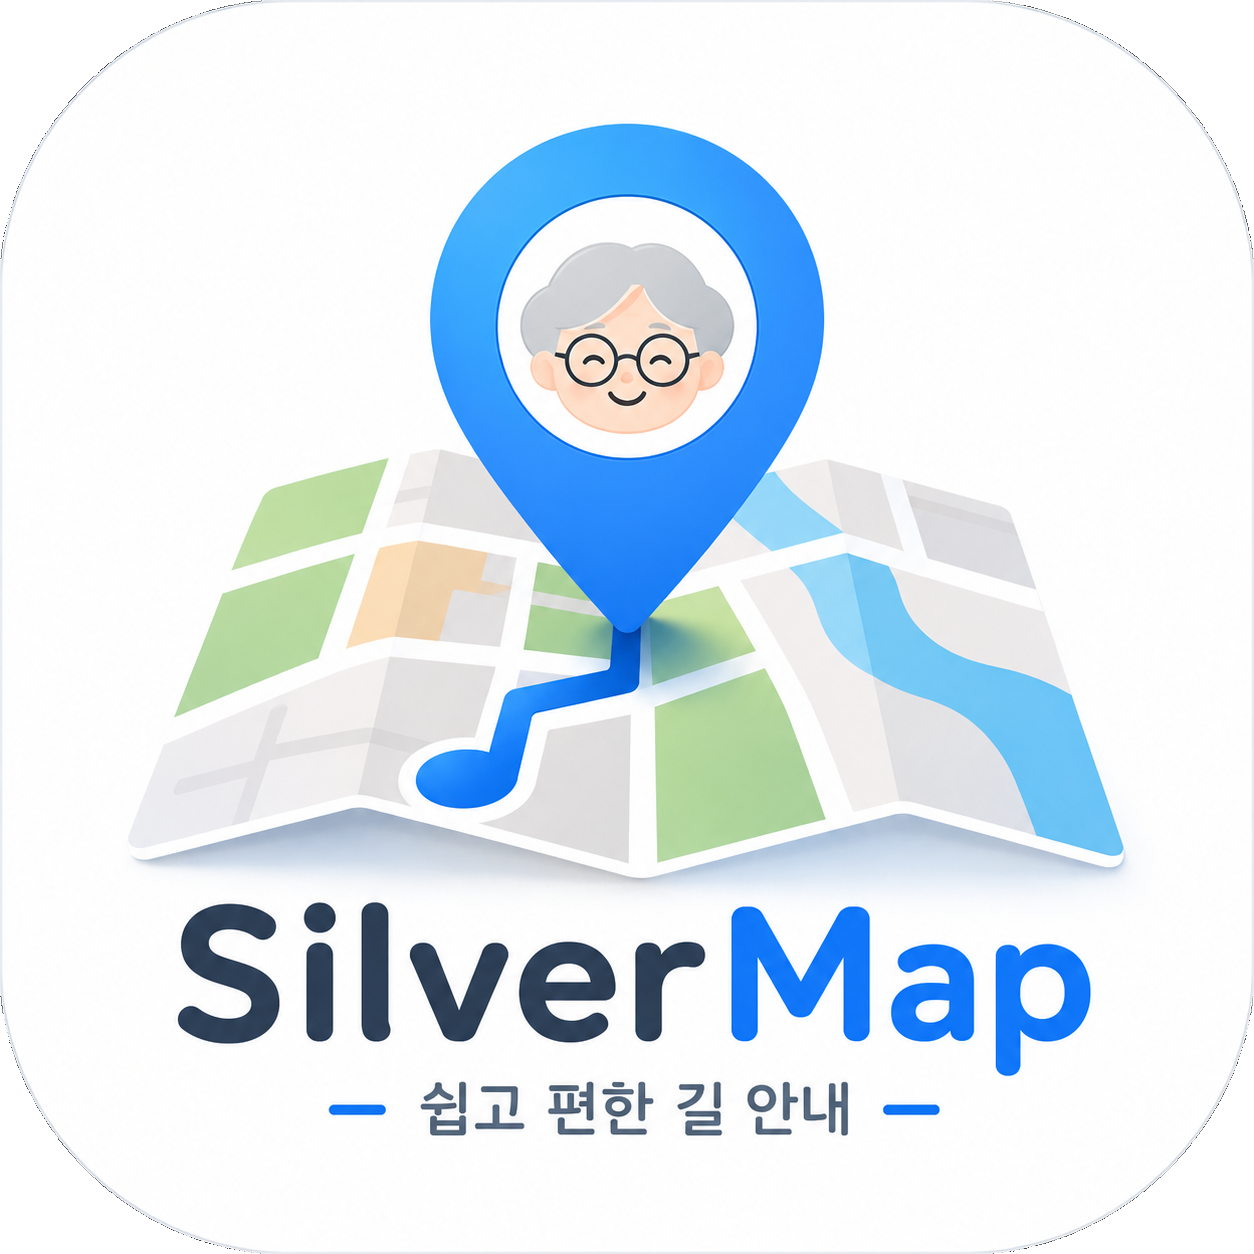
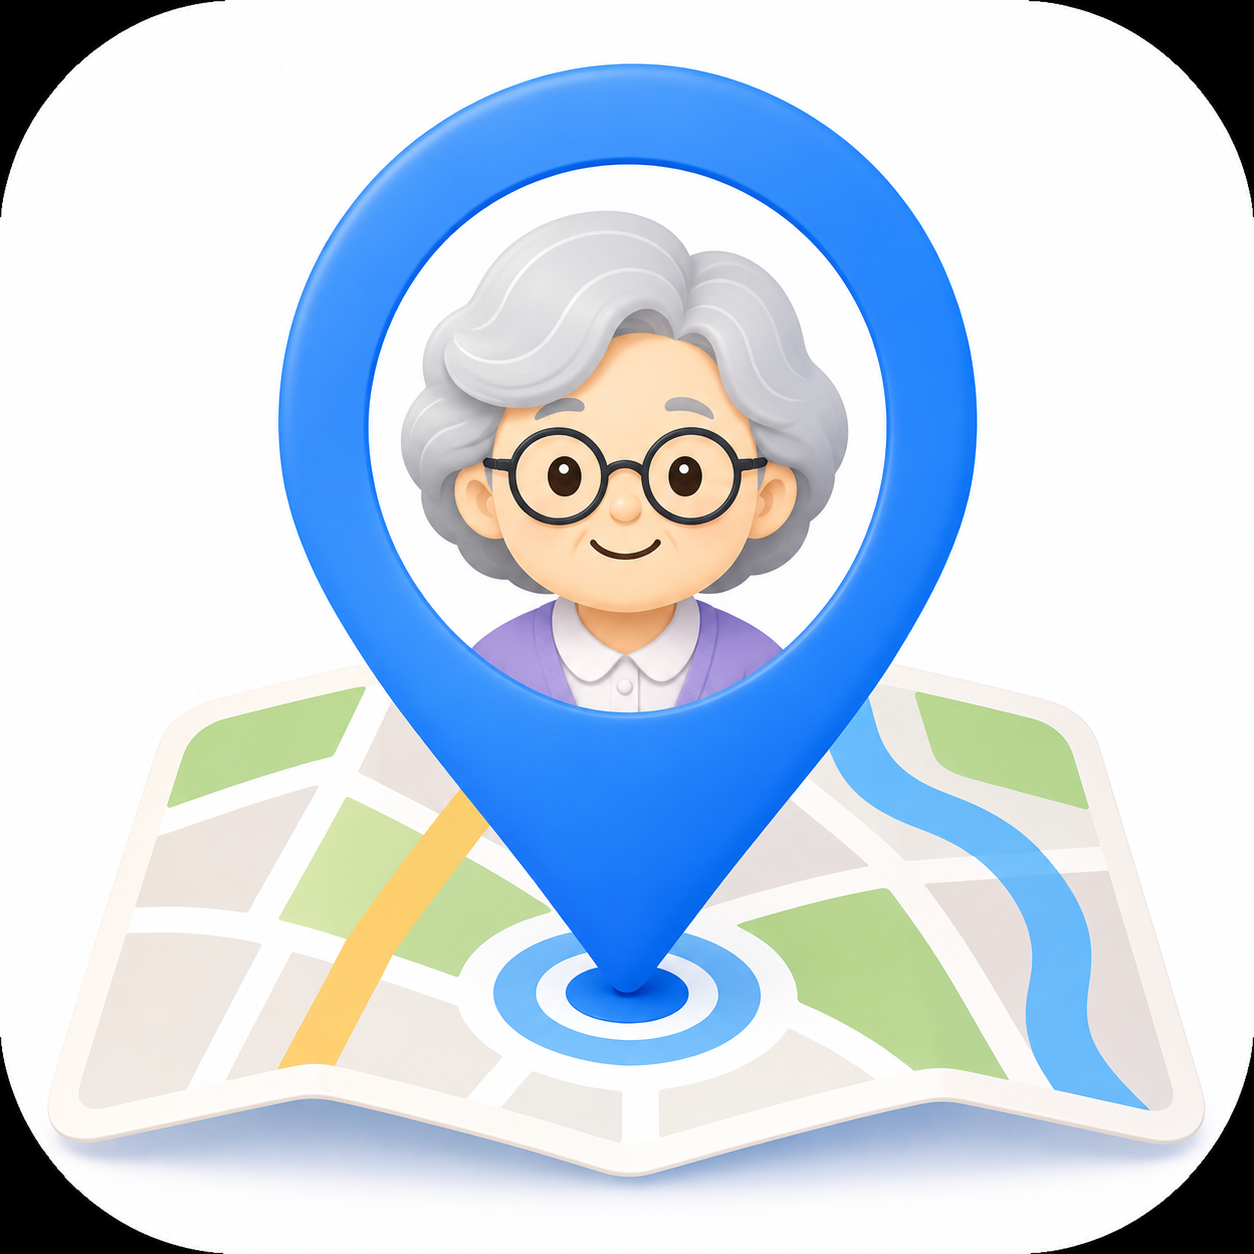
feat: 새 앱 아이콘 교체 및 스플래시 스크린 추가
- public/icon.png: 흰 배경 새 아이콘으로 교체 (검은 모서리 제거)
- public/splash.png: SilverMap 스플래시 이미지 추가
- manifest.json: 아이콘 PNG로 변경, 앱 이름 SilverMap으로 업데이트
- SplashScreen.jsx: 2초 표시 후 페이드아웃 스플래시 컴포넌트 추가
- App.jsx: 앱 최초 진입 시 스플래시 화면 표시 후 홈 탭 전환

diff --git a/src/App.jsx b/src/App.jsx
@@ -1,4 +1,5 @@
 import { useCallback, useEffect, useRef, useState } from 'react'
+import SplashScreen from './SplashScreen.jsx'
 import MapCanvas from './MapCanvas.jsx'
 import BottomNav from './BottomNav.jsx'
 import SearchPanel from './SearchPanel.jsx'
@@ -19,6 +20,8 @@ import { CloseIcon } from './icons.jsx'
 import { searchByKeyword } from './placesService.js'
 
 export default function App() {
+  const [showSplash, setShowSplash] = useState(true)
+
   // tab: 'home' | 'directions' | 'reserve' | 'transit' | 'more'
   const [tab, setTab]                   = useState('home')
   const [installPrompt, setInstallPrompt] = useState(null)
@@ -150,6 +153,8 @@ export default function App() {
   }
 
   return (
+    <>
+    {showSplash && <SplashScreen onDone={() => setShowSplash(false)} />}
     <div style={{ display: 'flex', flexDirection: 'column', height: '100dvh', background: 'var(--bg)' }}>
       {/* ① 최상단: 빨간 방향 화살표 배너 (항상 표시) */}
       <ArrowBanner />
@@ -323,6 +328,7 @@ export default function App() {
         />
       )}
     </div>
+    </>
   )
 }
 

diff --git a/src/SplashScreen.jsx b/src/SplashScreen.jsx
@@ -1,0 +1,26 @@
+import { useEffect, useState } from 'react'
+
+export default function SplashScreen({ onDone }) {
+  const [fading, setFading] = useState(false)
+
+  useEffect(() => {
+    const fadeTimer = setTimeout(() => setFading(true), 1600)
+    const doneTimer = setTimeout(onDone, 2000)
+    return () => { clearTimeout(fadeTimer); clearTimeout(doneTimer) }
+  }, [onDone])
+
+  return (
+    <div style={{
+      position: 'fixed', inset: 0, zIndex: 9999,
+      background: '#d6e8f7',
+      opacity: fading ? 0 : 1,
+      transition: 'opacity 400ms ease-out',
+    }}>
+      <img
+        src="/splash.png"
+        alt="SilverMap"
+        style={{ width: '100%', height: '100%', objectFit: 'cover' }}
+      />
+    </div>
+  )
+}
